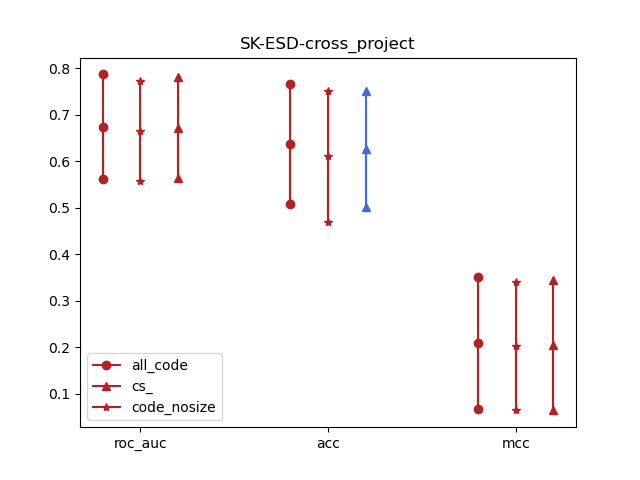
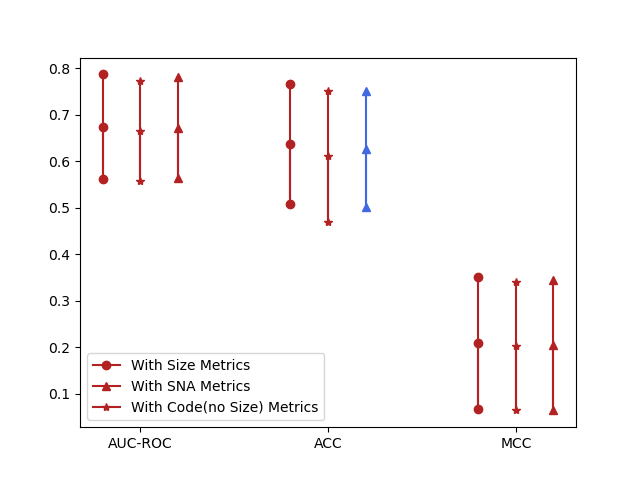
1225_结果名称

diff --git a/code_/rq1_2/SKESD_res.py b/code_/rq1_2/SKESD_res.py
@@ -55,8 +55,10 @@ def multi_res_img(df,tag,model,validation):
             data = data.append(pd.DataFrame(tmp, columns=['roc_auc','acc','mcc', tag]), ignore_index=True)
     # 位置：按照评估指标划分;每种度量集+0.2
     x = {'roc_auc': 1, 'acc': 2, 'mcc': 3}
+    # x = {'AUC-ROC': 1, 'ACC': 2, 'MCC': 3}
     # 按评估指标绘图——rank
     measures = ['roc_auc','acc','mcc']
+    # measures = ['AUC-ROC', 'ACC', 'MCC']
     for m in measures:
         rank = {}
         df = data[[m,tag]]
@@ -83,8 +85,16 @@ def multi_res_img(df,tag,model,validation):
                 plt.plot([x[m]+0.2, x[m]+0.2, x[m]+0.2], cs.iloc[:, 0],marker='^', c=('firebrick' if rank[label] == 1 else 'royalblue'))
         # '''
     # '''
-    plt.xticks(list(x.values()), list(x.keys()))
-    plt.title("SK-ESD-"+validation)
+    for idx in range(0,len(method)):
+        if method[idx] == 'cs_':
+            method[idx] = "With SNA Metrics"
+        elif method[idx] == 'all_code':
+            method[idx] = "With Size Metrics"
+        elif method[idx] == 'code_nosize':
+            method[idx] = "With Code(no Size) Metrics"
+    # plt.xticks(list(x.values()), list(x.keys()))
+    plt.xticks(list(x.values()),['AUC-ROC','ACC','MCC'])
+    # plt.title("SK-ESD-"+validation)
     plt.legend(method, loc='lower left')  # 绘制表示框，左下角绘制
     plt.savefig("../../res/rq1_2-res/"+validation+"/sk_esd/"+model+"_SKESD-Res.png")
     # plt.show()
@@ -93,8 +103,8 @@ def multi_res_img(df,tag,model,validation):
 
 
 if __name__ == '__main__':
-    # validation = "within-project"
-    validation = "cross_project"
+    validation = "within-project"
+    # validation = "cross_project"
     sk = importr('ScottKnottESD')
     tag = 'metrics'
     models = ['rf', 'lr', 'nb', 'xgb', 'svm']
